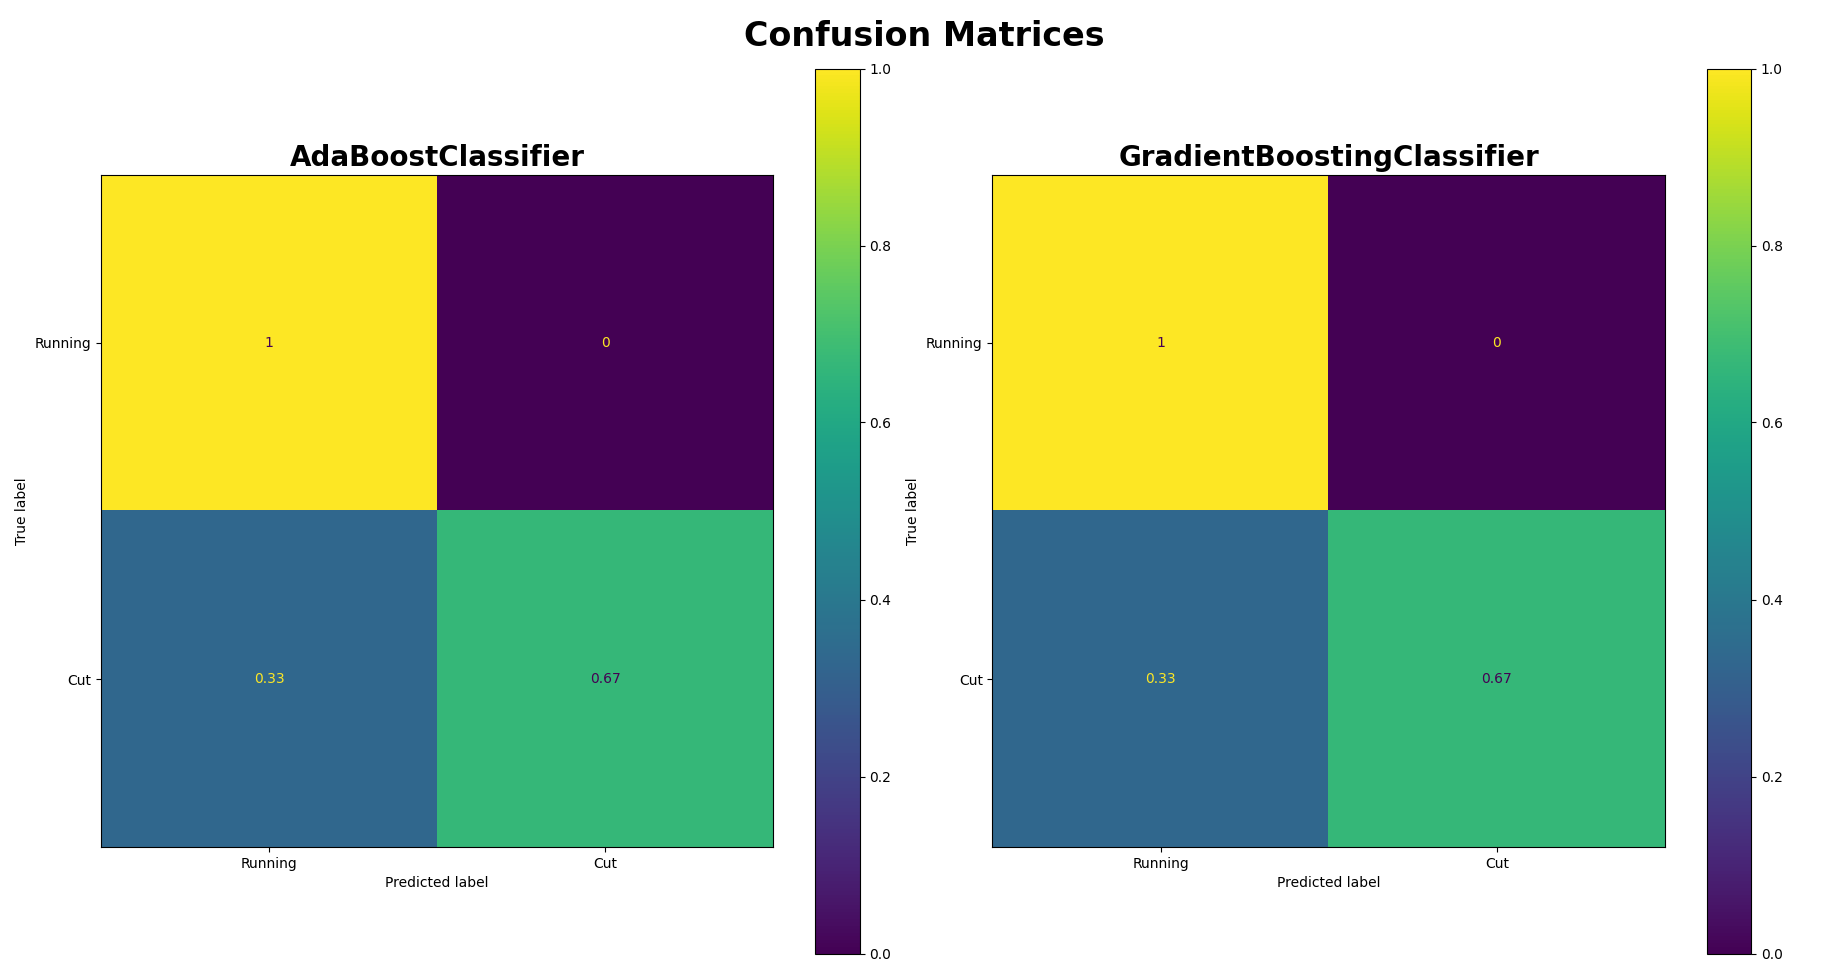
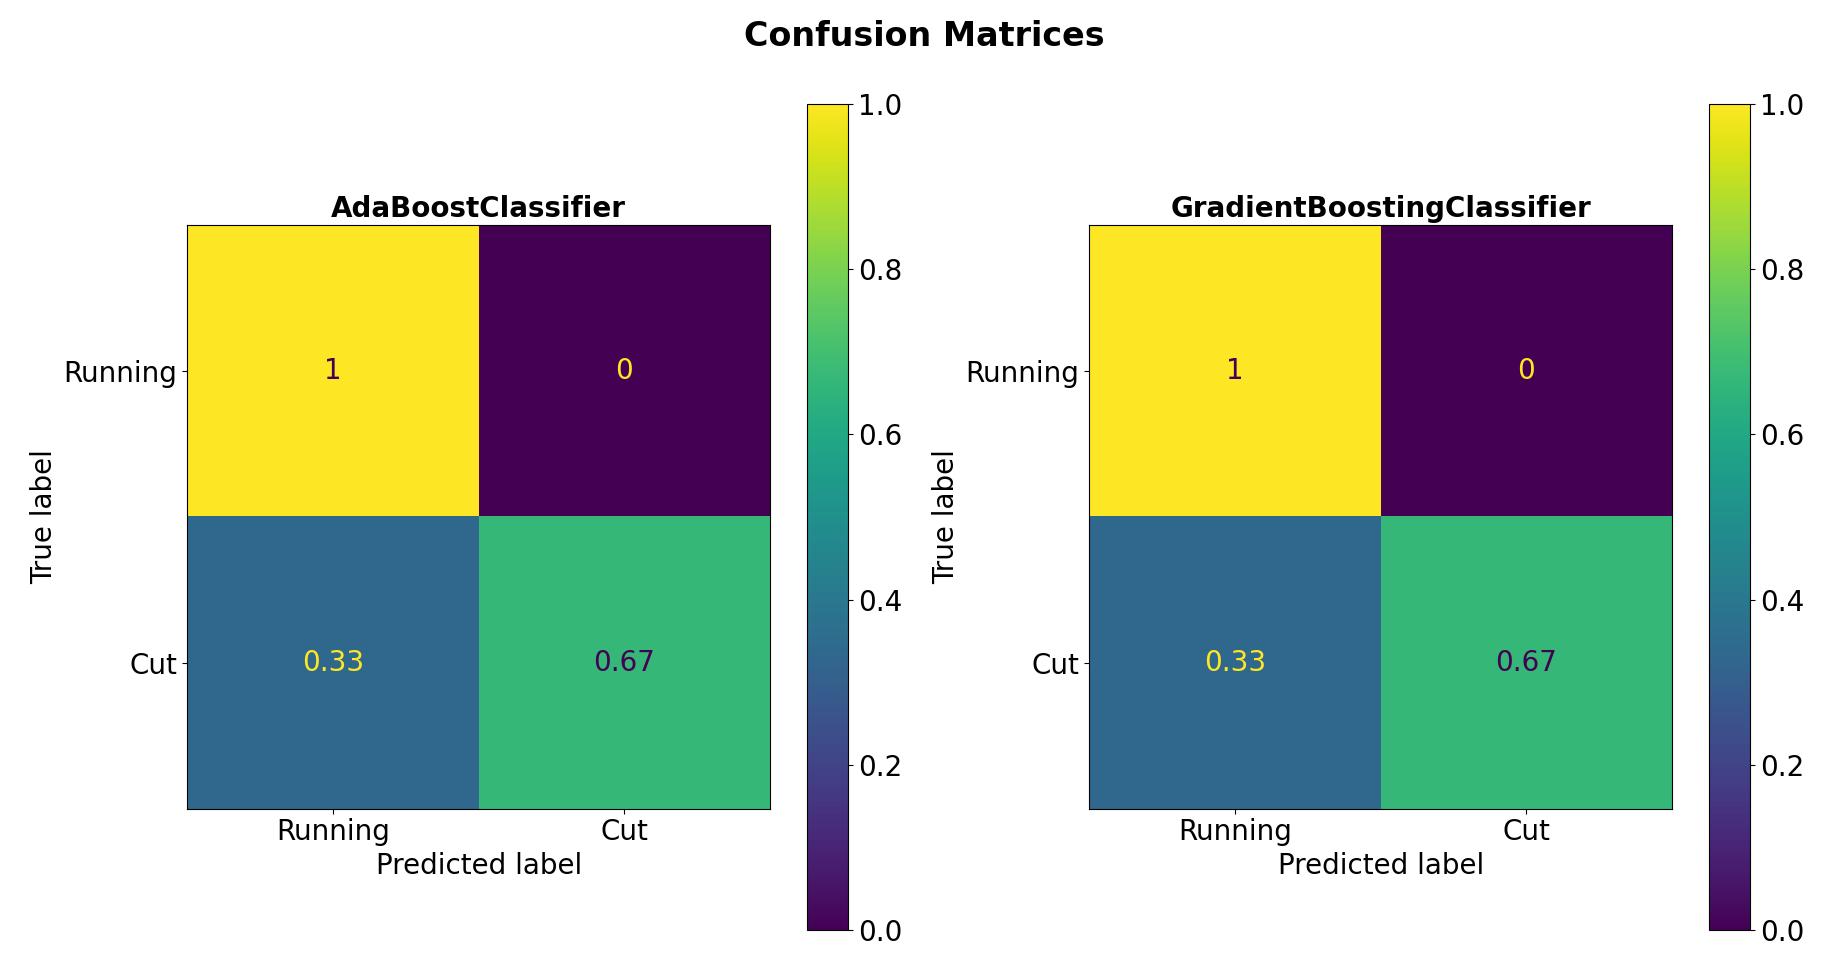
update figures

diff --git a/plot_evaluation.py b/plot_evaluation.py
@@ -6,6 +6,8 @@ import pandas as pd
 import matplotlib.pyplot as plt
 import numpy as np
 
+plt.rcParams.update({'font.size': 20})
+
 
 def compare_models_plot(titel: str, results: np.ndarray, names: List[str]):
     print(np.asarray(results))
@@ -91,6 +93,7 @@ def run():
               ("GradientBoostingClassifier", boosting_stats),
               ]
 
+    # plot_confusion_matrix(models)
     for sub_models in np.split(np.asarray(models), len(models) // 2):
         print(len(sub_models))
         plot_confusion_matrix(sub_models)
